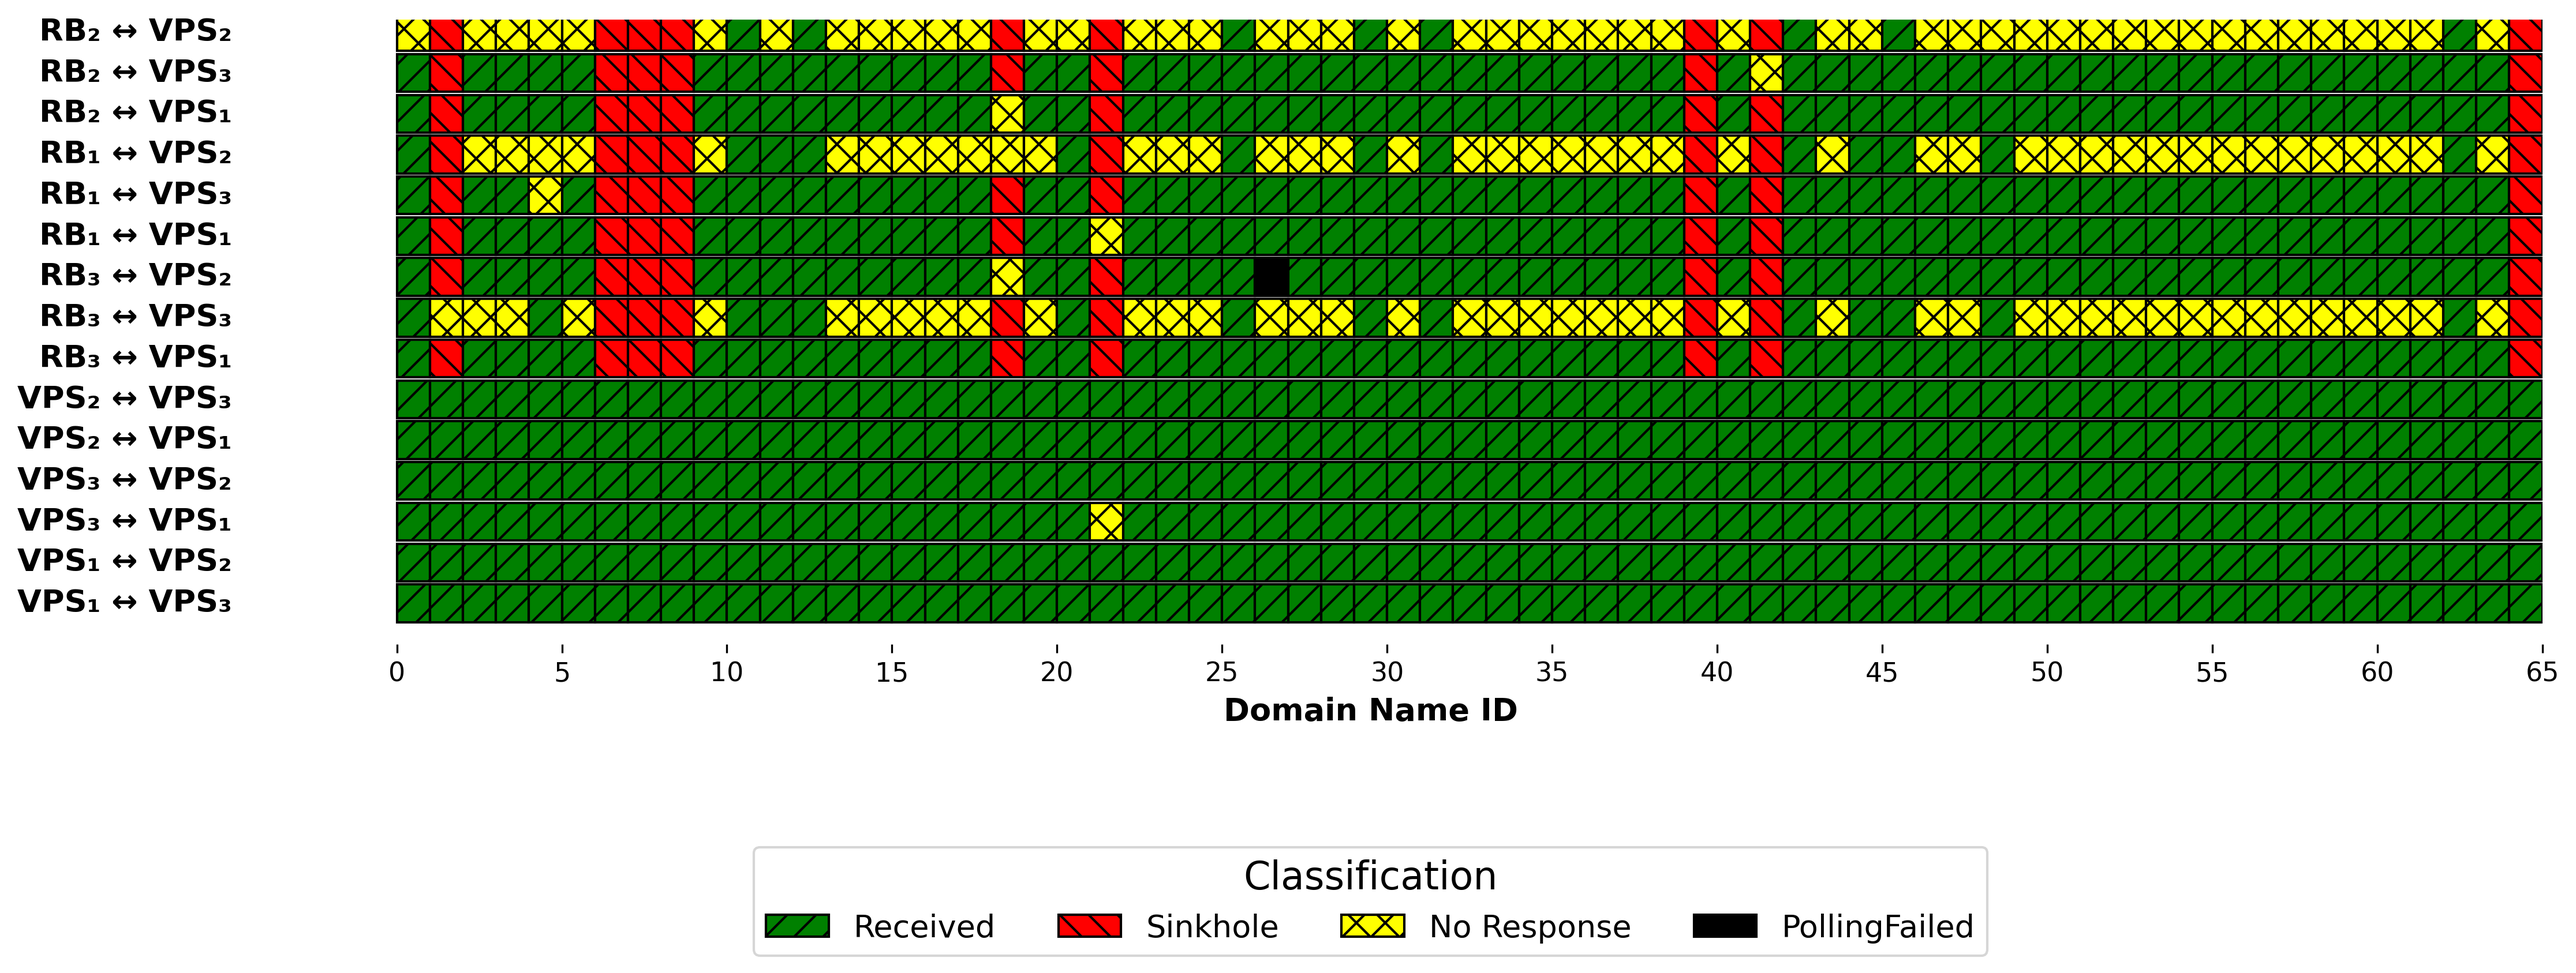
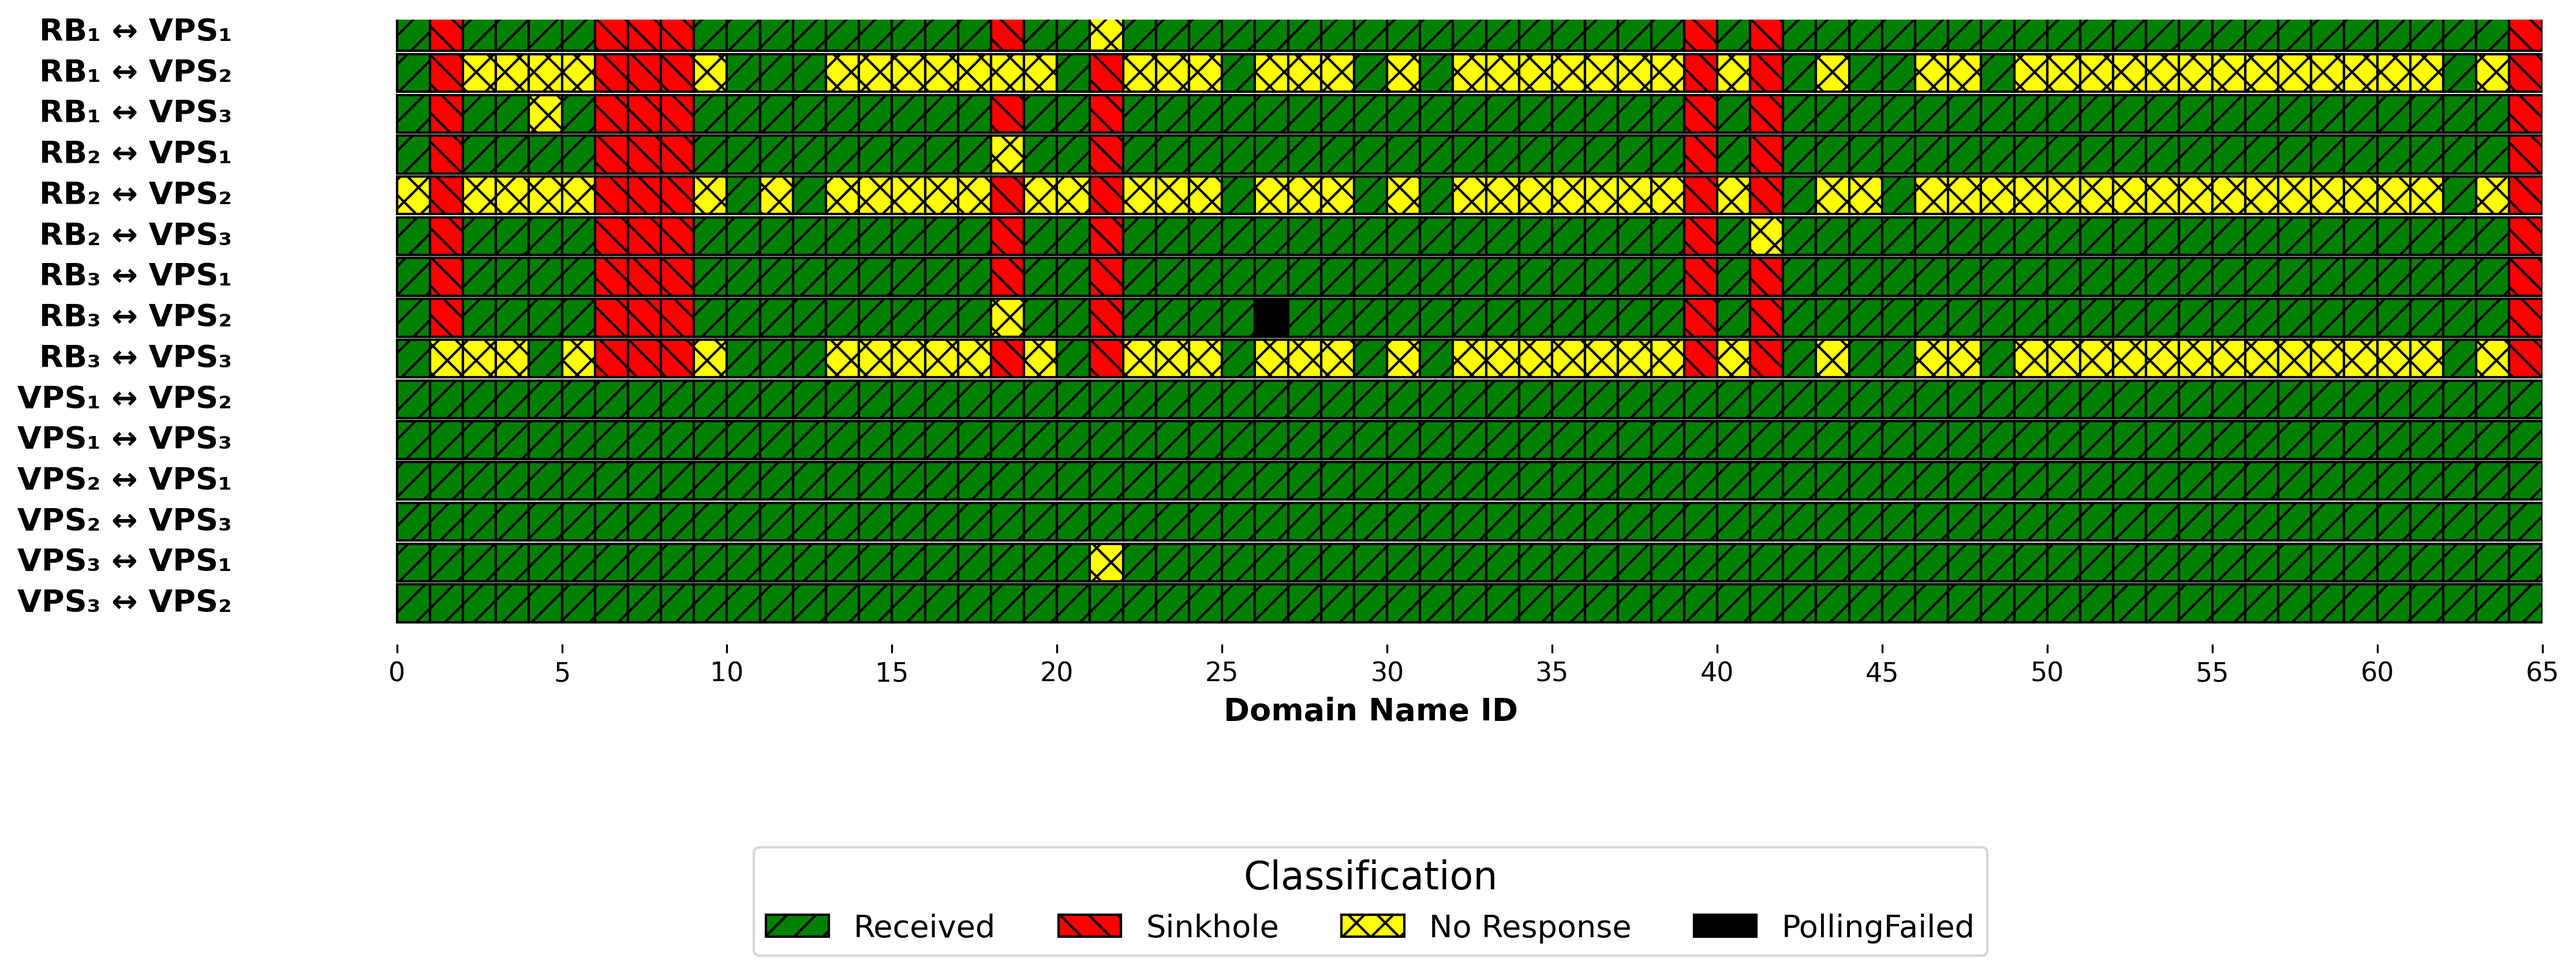
display with order alphabetical worker

Changed region(s): [[0.1557, 0.0, 0.9966, 0.4007], [0.1557, 0.3082, 0.2803, 0.4007], [0.4049, 0.524, 0.436, 0.6165]]

diff --git a/http_simple_all_workers_conformance.py b/http_simple_all_workers_conformance.py
@@ -123,7 +123,7 @@ def plot_classification_group(protocol, output_file):
     y_spacing = 0.65
     bar_height = 0.6
 
-    all_pairs = sorted(classified_by_pair.keys())
+    all_pairs = sorted(classified_by_pair.keys(), key=lambda p: (format_worker_name(p[0]), format_worker_name(p[1])))
     y_positions = [y_spacing * (len(all_pairs) - i) for i in range(len(all_pairs))]
 
     present_statuses = set()

diff --git a/dns_all_workers.py b/dns_all_workers.py
@@ -96,7 +96,7 @@ fig, ax = plt.subplots(figsize=(15, 6))
 y_spacing = 0.65
 bar_height = 0.6
 
-all_pairs = sorted(classified_by_pair.keys())
+all_pairs = sorted(classified_by_pair.keys(), key=lambda p: (format_worker_name(p[0]), format_worker_name(p[1])))
 y_positions = [y_spacing * (len(all_pairs) - i) for i in range(len(all_pairs))]
 present_statuses = set()
 

diff --git a/http_conformance_all_workers.py b/http_conformance_all_workers.py
@@ -90,7 +90,7 @@ fig, ax = plt.subplots(figsize=(15, 6))
 y_spacing = 0.65
 bar_height = 0.6
 
-all_pairs = sorted(classified_by_pair.keys())
+all_pairs = sorted(classified_by_pair.keys(), key=lambda p: (format_worker_name(p[0]), format_worker_name(p[1])))
 y_positions = [y_spacing * (len(all_pairs) - i) for i in range(len(all_pairs))]
 present_statuses = set()
 
